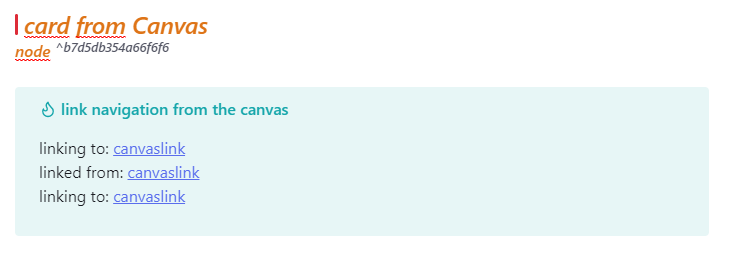
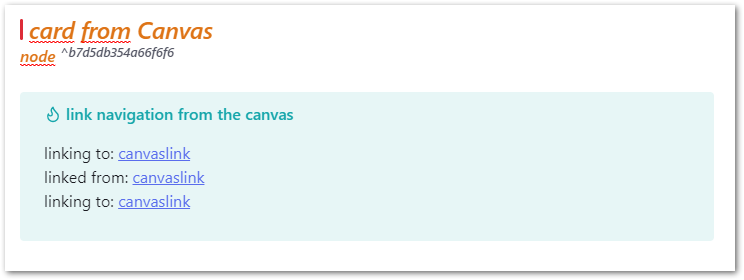
update README

diff --git a/README.md b/README.md
@@ -9,7 +9,7 @@ The plugin reads [Obsidian's](https://obsidian.md/blog/json-canvas/) [JSON Canva
 
 The connections in the canvas are replicated via metadata headers with corresponding links in the target document.
 
-<img src="images/metaheader-doc.png" alt="screencomplex" width="400"/>
+<img src="images/metaheader-doc.png" alt="screencomplex" width="600"/>
 
 # Handling of the generated documents
 An adjustment or arrangement of the documents may be necessary because Obsidian Canvas is not necessarily used as a graph with a consistent hierarchical structure, as in the figure:
